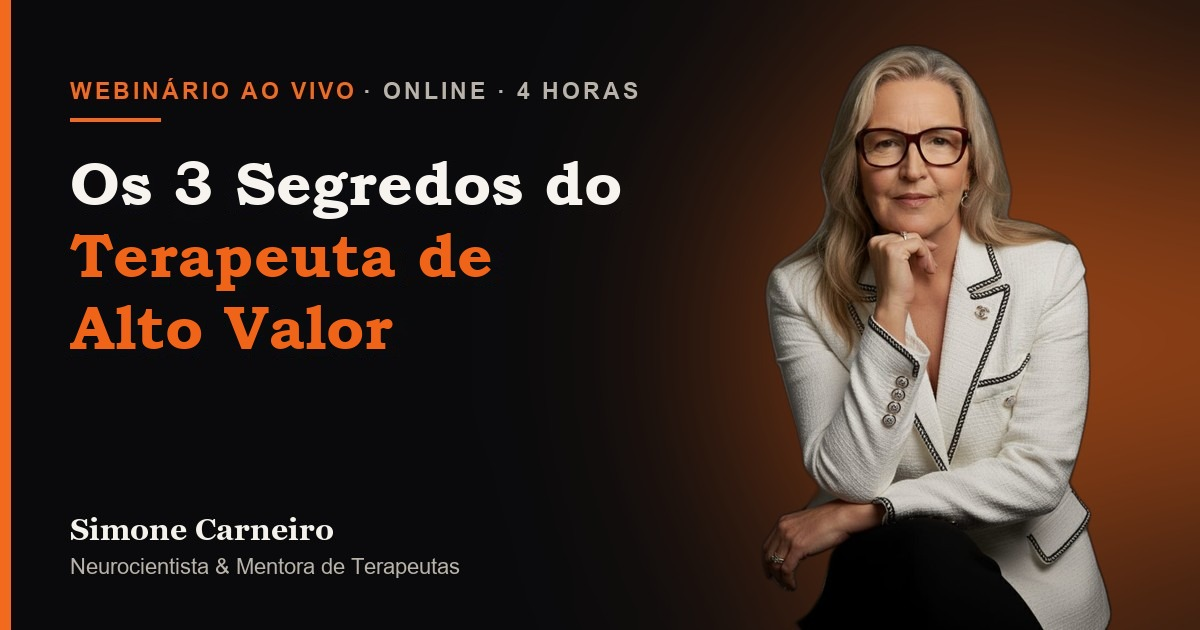
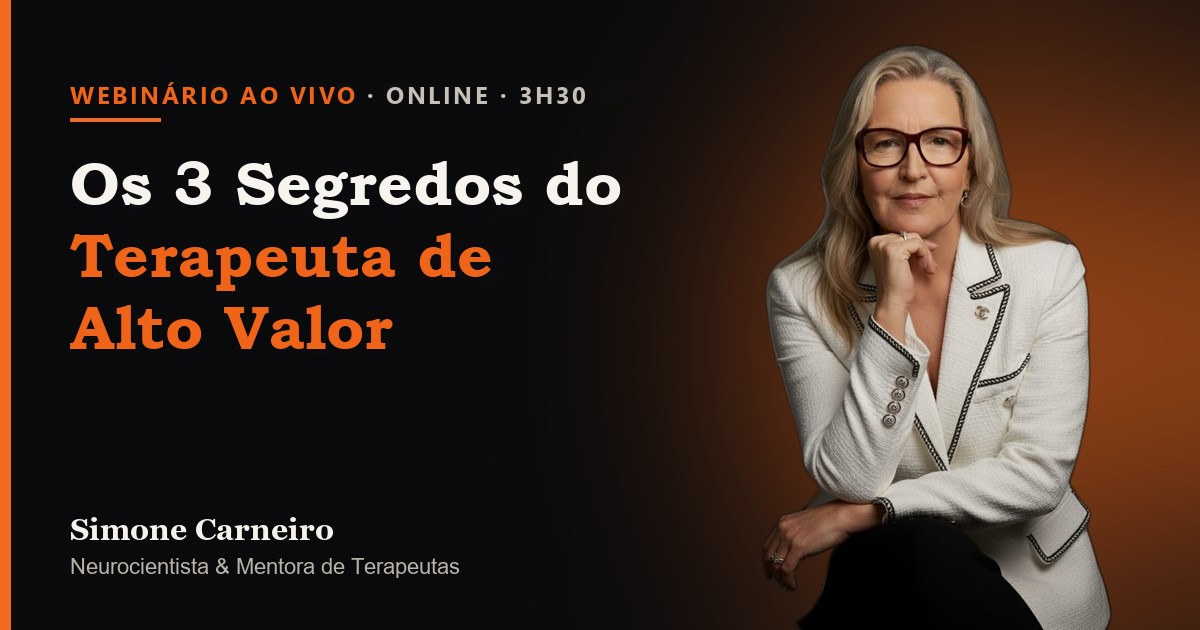
fix: card de previa com 3h30 e o 3 alinhado; pagina de comparacao das fontes

Changed region(s): [[0.0617, 0.1206, 0.4008, 0.181], [0.4317, 0.1206, 0.5242, 0.181]]

diff --git a/index.html b/index.html
@@ -22,14 +22,14 @@
   <meta property="og:title"       content="Os 3 Segredos do Terapeuta de Alto Valor" />
   <meta property="og:description" content="Descubra as travas emocionais que separam os terapeutas que crescem dos que ficam estagnados. Webinário online e ao vivo, em 3h30." />
   <meta property="og:url"         content="https://simoneneurociencias.github.io/lp-webinarterapeutas" />
-  <meta property="og:image"        content="https://simoneneurociencias.github.io/lp-webinarterapeutas/og-preview-v2.jpg" />
-  <meta property="og:image:secure_url" content="https://simoneneurociencias.github.io/lp-webinarterapeutas/og-preview-v2.jpg" />
+  <meta property="og:image"        content="https://simoneneurociencias.github.io/lp-webinarterapeutas/og-preview-v3.jpg" />
+  <meta property="og:image:secure_url" content="https://simoneneurociencias.github.io/lp-webinarterapeutas/og-preview-v3.jpg" />
   <meta property="og:image:width"  content="1200" />
   <meta property="og:image:height" content="630" />
   <meta property="og:image:type"   content="image/jpeg" />
   <meta property="og:image:alt"    content="Webinário Os 3 Segredos do Terapeuta de Alto Valor, com Simone Carneiro" />
   <meta name="twitter:card"       content="summary_large_image" />
-  <meta name="twitter:image"      content="https://simoneneurociencias.github.io/lp-webinarterapeutas/og-preview-v2.jpg" />
+  <meta name="twitter:image"      content="https://simoneneurociencias.github.io/lp-webinarterapeutas/og-preview-v3.jpg" />
   <meta name="twitter:title"      content="Os 3 Segredos do Terapeuta de Alto Valor" />
   <meta name="twitter:description" content="Webinário ao vivo: as travas emocionais que travam o crescimento dos terapeutas de alto nível." />
 

diff --git a/teste-card/index.html b/teste-card/index.html
@@ -25,8 +25,8 @@
 <h1>Comparação do card &mdash; página de teste</h1>
 
 <figure>
-  <img src="../og-preview-v2.jpg" alt="Card em Cambria" />
-  <figcaption>1. Cambria &mdash; publicado hoje na LP</figcaption>
+  <img src="../og-preview-v3.jpg" alt="Card em Cambria" />
+  <figcaption>1. Cambria &mdash; a que esta publicada na LP</figcaption>
 </figure>
 
 <figure>
